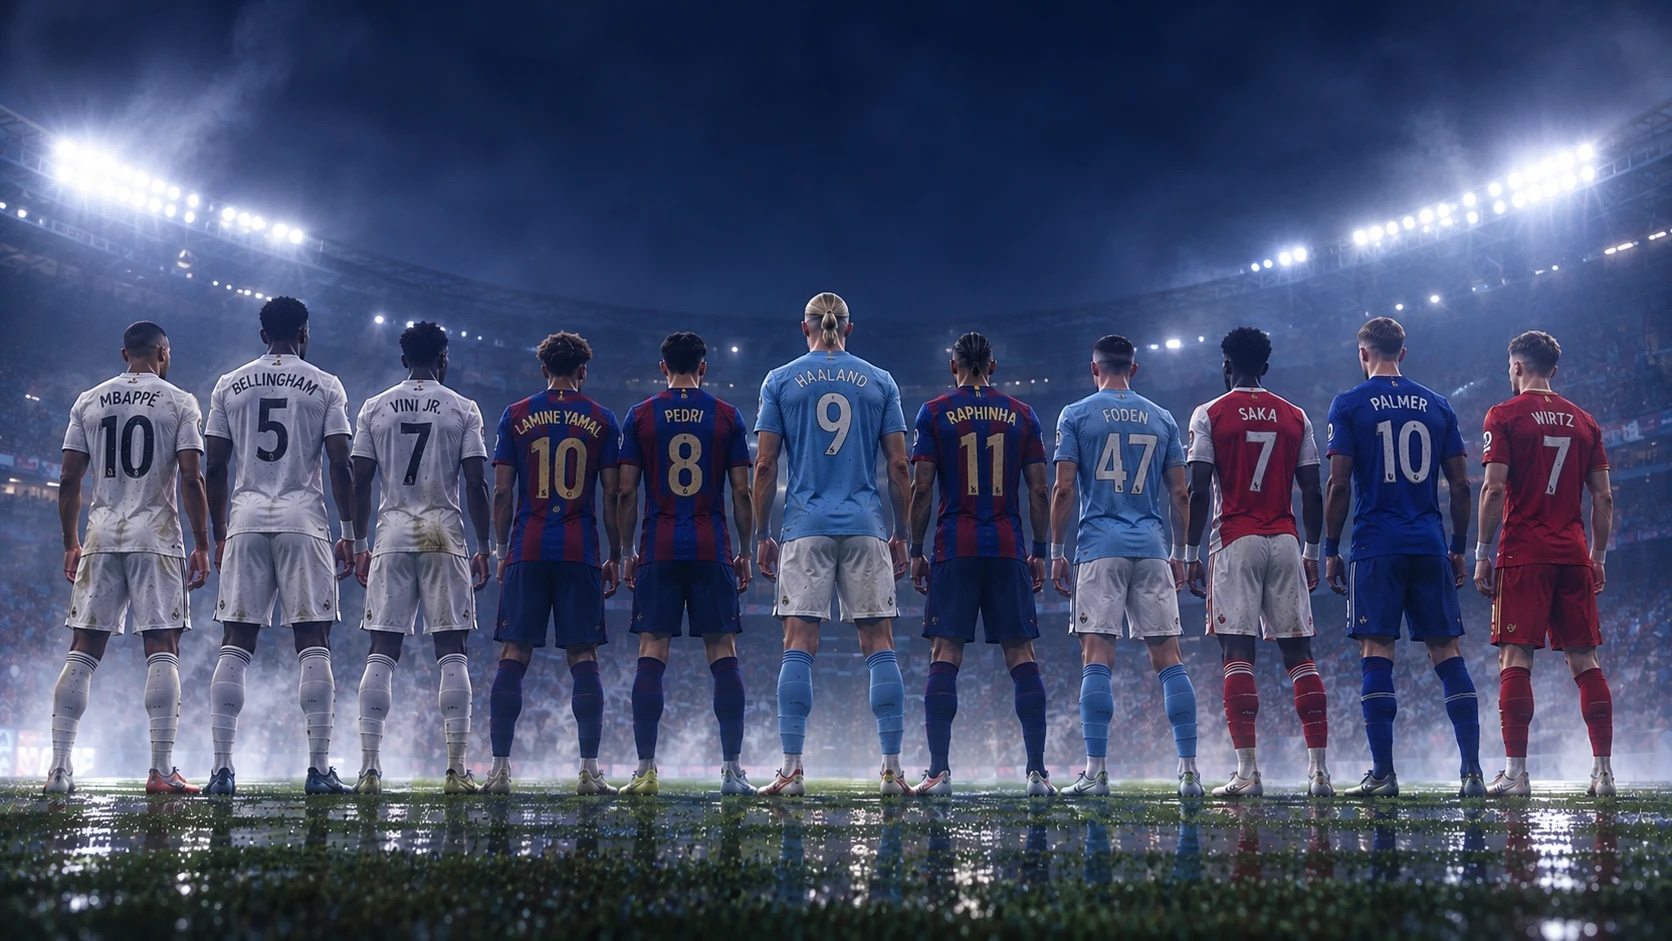
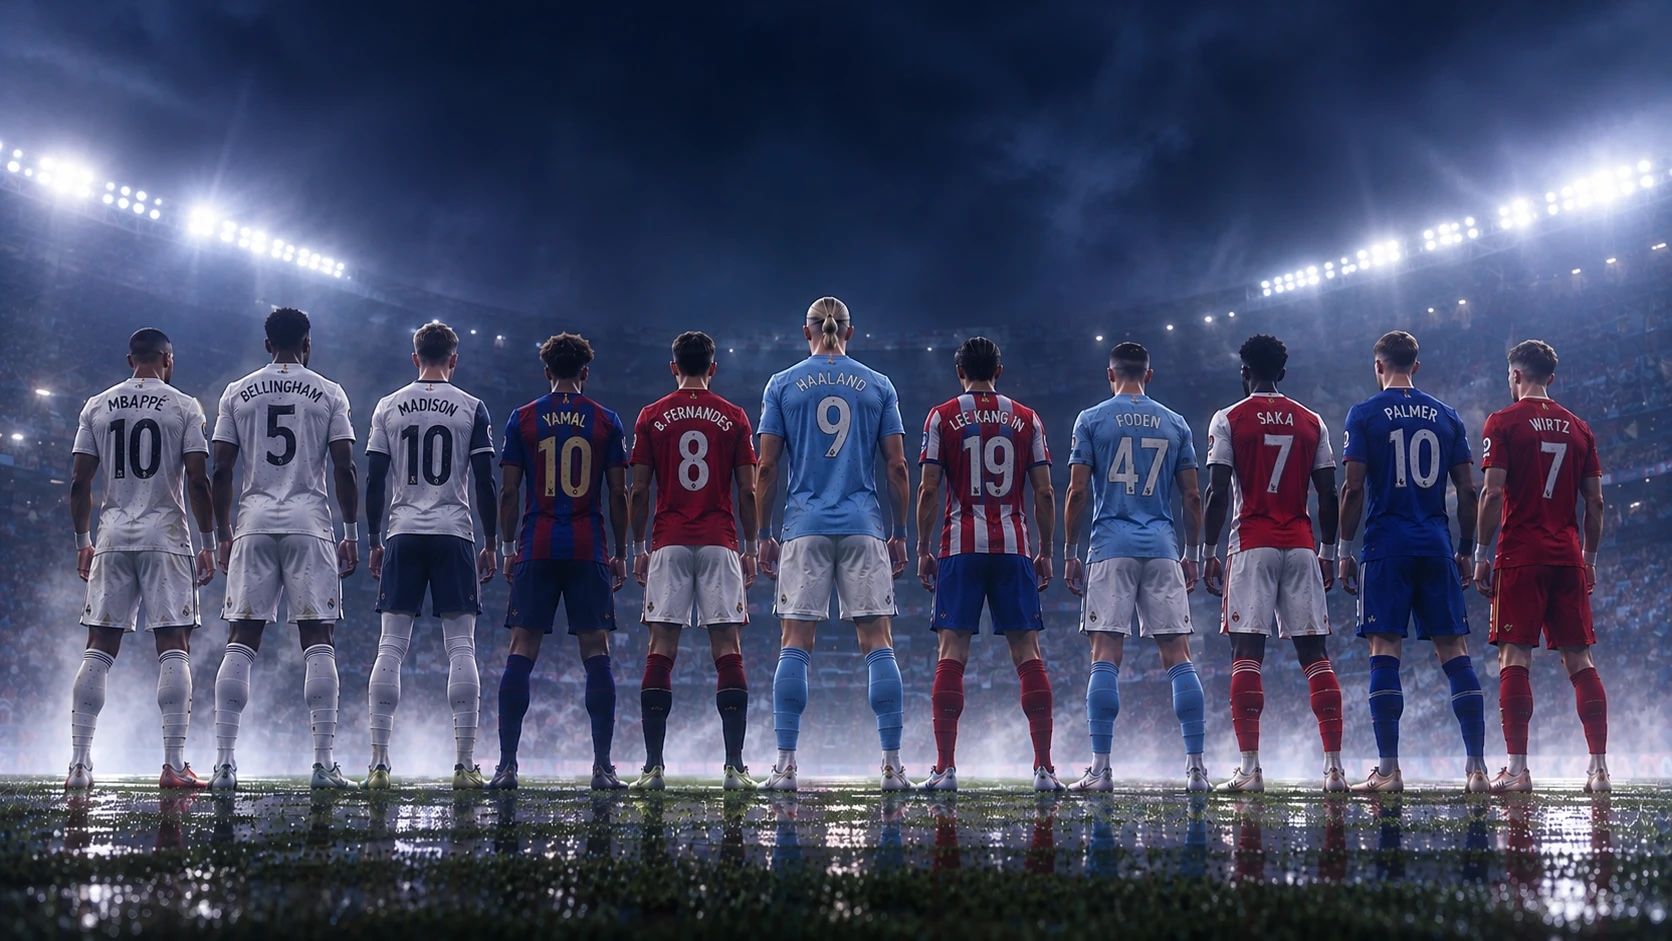
첫 화면 이미지 교체

diff --git a/index.html b/index.html
@@ -9,7 +9,7 @@
 <meta property="og:title" content="POSTXI — 새벽 축구 소식을 한눈에">
 <meta property="og:description" content="새벽 경기, 일어나서 한눈에 확인하세요. 사전 신청을 받고 있습니다.">
 <meta property="og:type" content="website">
-<meta property="og:image" content="https://sangwoo-97.github.io/postxi/hero.jpg">
+<meta property="og:image" content="https://sangwoo-97.github.io/postxi/hero.jpg?v=2">
 <link rel="icon" href="favicon.svg" type="image/svg+xml">
 <link rel="preconnect" href="https://fonts.googleapis.com">
 <link rel="preconnect" href="https://fonts.gstatic.com" crossorigin>
@@ -130,7 +130,7 @@
 
   <!-- 1. 한 줄 약속 -->
   <section class="hero">
-    <div class="hero-bg"><img src="hero.jpg" alt="" width="1672" height="941"></div>
+    <div class="hero-bg"><img src="hero.jpg?v=2" alt="" width="1672" height="941"></div>
     <h1 class="hero-in">
       <svg class="hero-logo" viewBox="0 0 464 100" role="img" aria-label="POSTXI" xmlns="http://www.w3.org/2000/svg">
         <path fill="#F3F5F5" fill-rule="evenodd" clip-rule="evenodd" d="M21.256 0H57.256C76.033 0 88.02 15.222 84.029 34C80.037 52.778 61.579 68 42.802 68H28.802L22 100H0L21.256 0ZM38.579 22H52.579C59.207 22 63.437 27.373 62.029 34C60.62 40.627 54.105 46 47.478 46H33.478L38.579 22ZM140.256 0C162.899 0 177.354 18.356 172.541 41L168.715 59C163.902 81.644 141.644 100 119 100C96.356 100 81.902 81.644 86.715 59L90.541 41C95.354 18.356 117.612 0 140.256 0ZM135.579 22C146.073 22 152.771 30.507 150.541 41L146.715 59C144.484 69.493 134.17 78 123.676 78C113.183 78 106.484 69.493 108.715 59L112.541 41C114.771 30.507 125.086 22 135.579 22ZM259.256 0H219.756C202.911 0 186.353 13.655 182.773 30.5C179.192 47.345 189.945 61 206.79 61H215.79C220.484 61 223.481 64.806 222.483 69.5C221.485 74.194 216.871 78 212.176 78H172.676L168 100H207.5C224.345 100 240.903 86.345 244.483 69.5C248.063 52.655 237.311 39 220.466 39H211.466C206.772 39 203.775 35.194 204.773 30.5C205.771 25.806 210.385 22 215.079 22H254.579L259.256 0ZM267.256 0H341.256L336.579 22H310.579L294 100H272L288.579 22H262.579L267.256 0Z"/>
